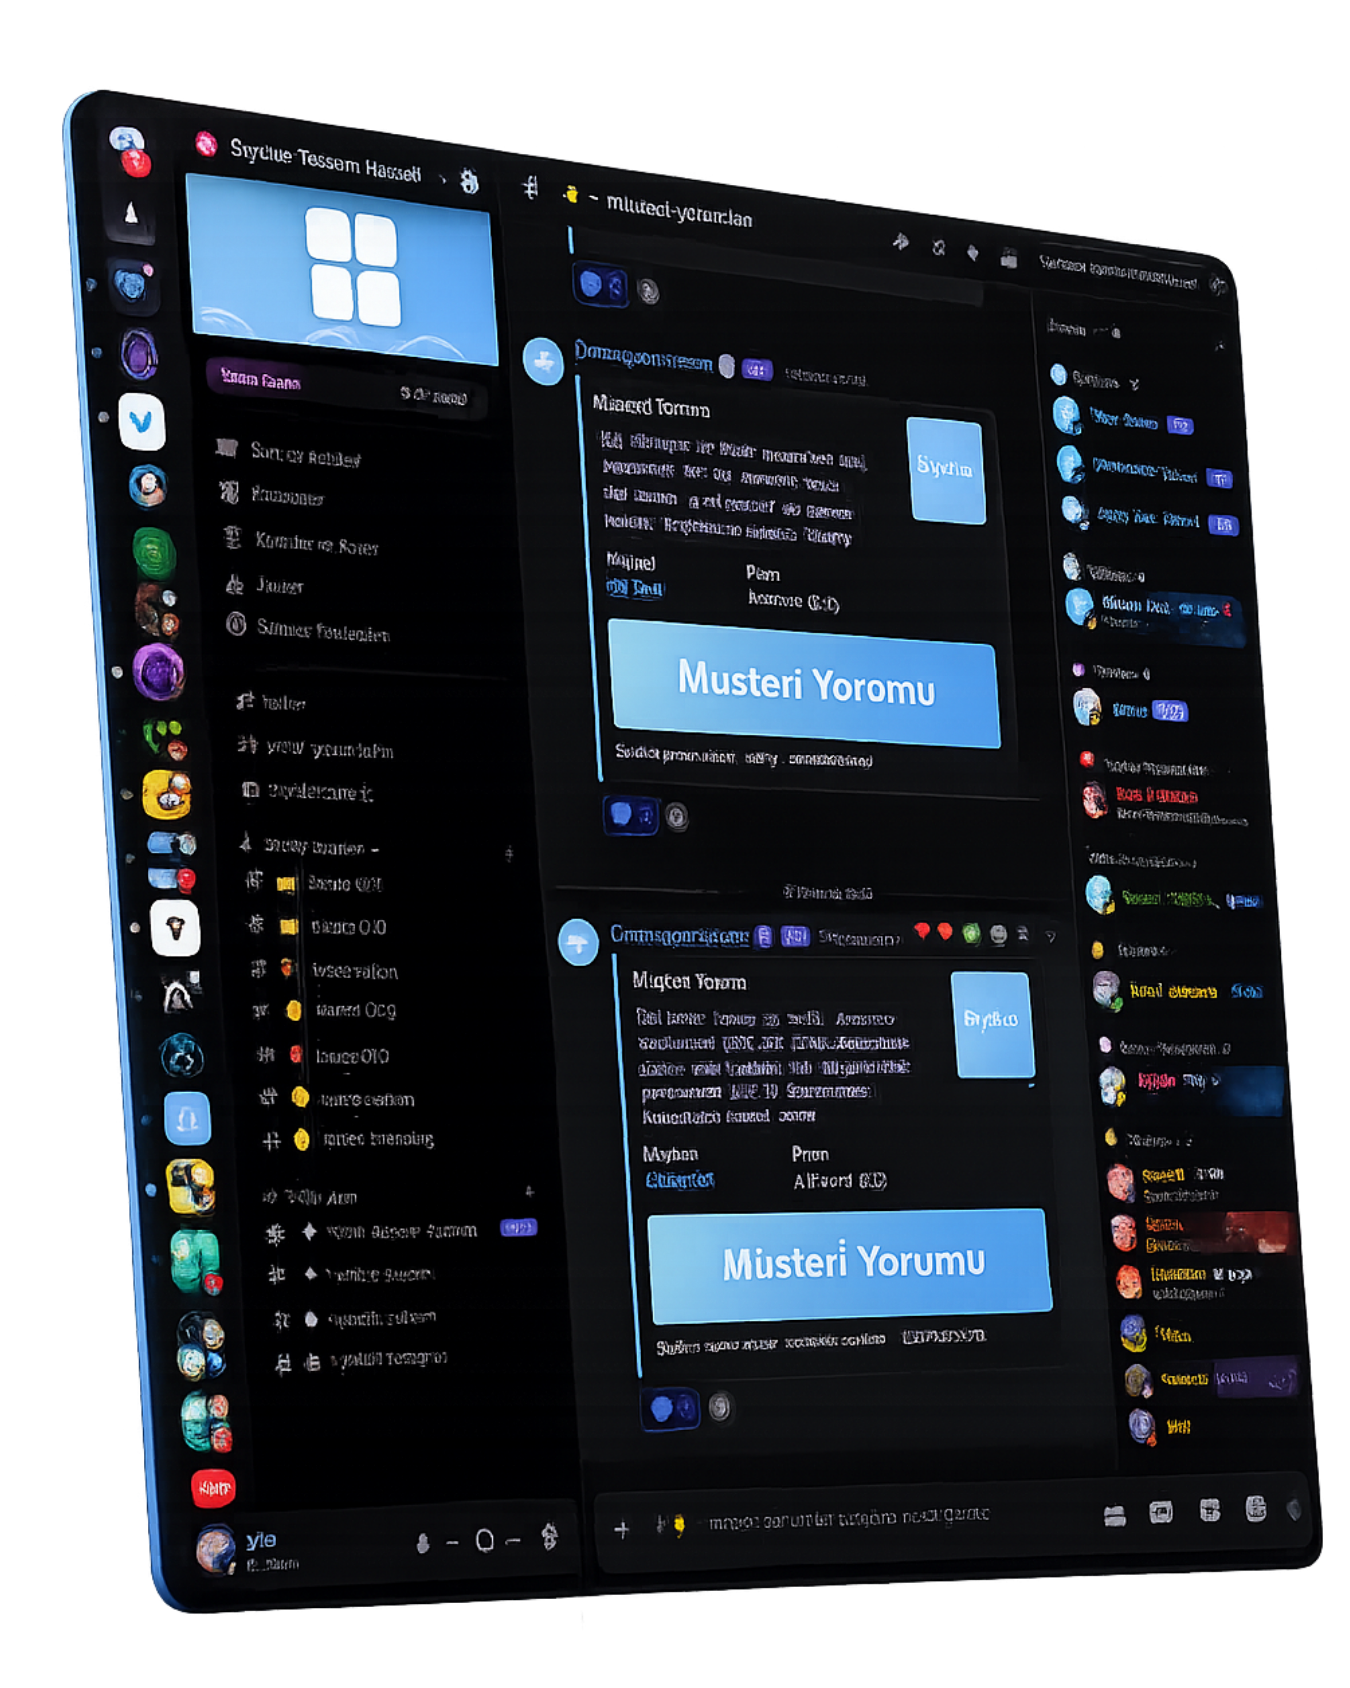
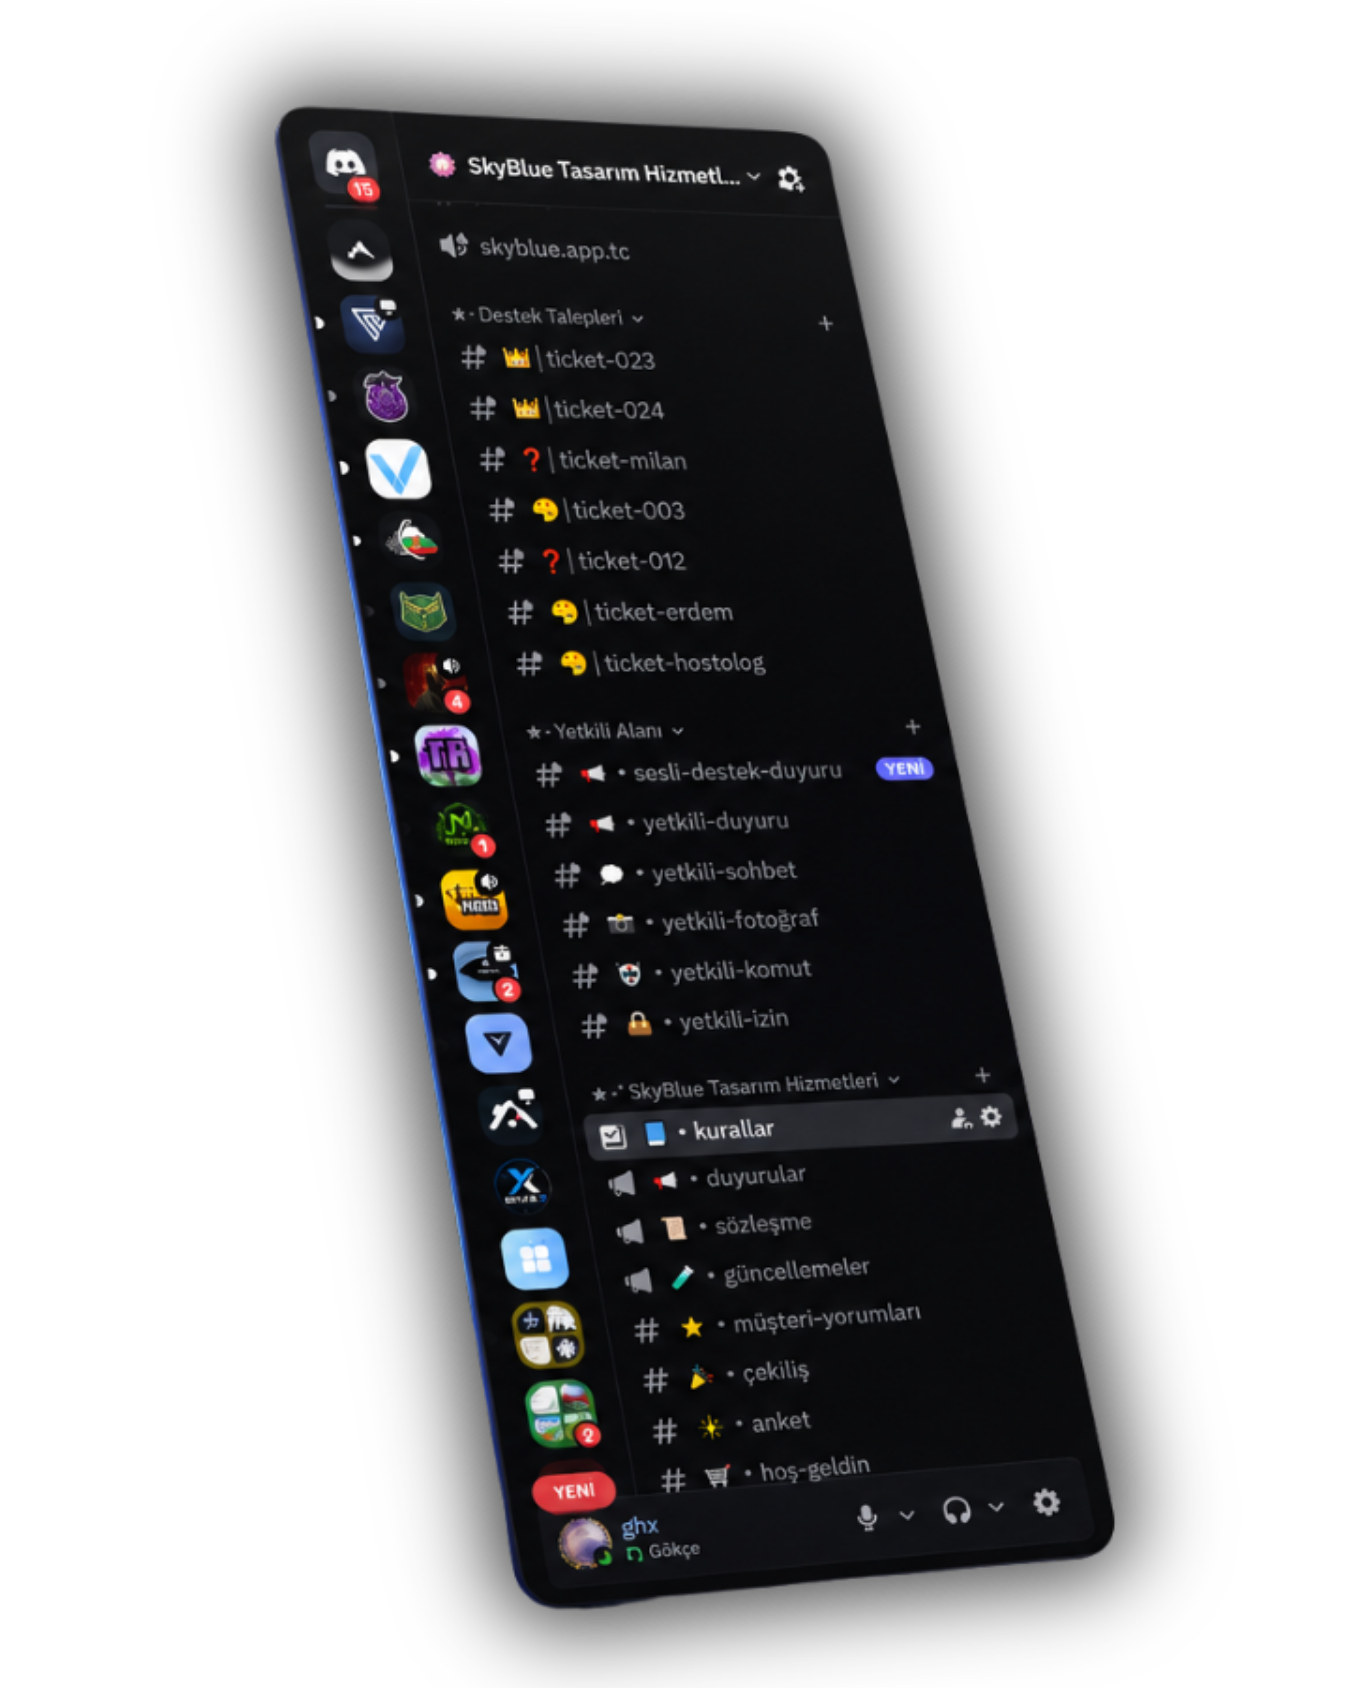
fix: nav underline initial snap, bg image loading style

diff --git a/components/Nav.tsx b/components/Nav.tsx
@@ -13,7 +13,7 @@ export default function Nav() {
   const pathname = usePathname();
   const { t, theme } = useApp();
   const [open, setOpen] = useState(false);
-  const [indicator, setIndicator] = useState({ left: 0, width: 0 });
+  const [indicator, setIndicator] = useState({ left: 0, width: 0, measured: false });
   const navRef = useRef<HTMLDivElement>(null);
 
   const current = pathname === "/" ? "home" : pathname.replace("/", "");
@@ -23,7 +23,7 @@ export default function Nav() {
     const active = navRef.current.querySelector<HTMLAnchorElement>("a.active-link");
     if (active) {
       const parent = active.parentElement as HTMLLIElement;
-      setIndicator({ left: parent.offsetLeft, width: parent.offsetWidth });
+      setIndicator({ left: parent.offsetLeft, width: parent.offsetWidth, measured: true });
     }
   }, [current, open]);
 
@@ -41,10 +41,12 @@ export default function Nav() {
           <MenuIcon size={24} />
         </button>
         <div ref={navRef} className={`relative ${open ? "flex" : "hidden"} md:flex absolute md:static top-16 left-0 right-0 bg-[var(--nav-bg)] md:bg-transparent backdrop-blur-md md:backdrop-blur-none border-b md:border-b-0 border-[var(--border)] md:border-none p-4 md:p-0`}>
-          <div
-            className="hidden md:block absolute bottom-0 h-[2px] bg-gradient-to-r from-[#97cdf2] to-[#59abfe] rounded-full transition-all duration-300 ease-in-out pointer-events-none"
-            style={{ left: indicator.left, width: indicator.width }}
-          />
+          {indicator.measured && (
+            <div
+              className="hidden md:block absolute bottom-0 h-[2px] bg-gradient-to-r from-[#97cdf2] to-[#59abfe] rounded-full transition-all duration-300 ease-in-out pointer-events-none"
+              style={{ left: indicator.left, width: indicator.width }}
+            />
+          )}
           <ul className="list-none flex flex-col md:flex-row gap-1 md:gap-0">
             {links.map((link) => (
               <li key={link}>

diff --git a/app/page.tsx b/app/page.tsx
@@ -93,7 +93,7 @@ export default function HomePage() {
                 {[...row.images, ...row.images].map((img, i) => (
                   <div
                     key={i}
-                    className="inline-block mx-4 rounded-lg overflow-hidden"
+                    className="inline-block mx-4 rounded-lg overflow-hidden bg-[var(--bg2)]"
                     style={{ height: row.h + (i % 3) * 20, aspectRatio: `${img.width}/${img.height}` }}
                   >
                     <Image
@@ -102,7 +102,7 @@ export default function HomePage() {
                       width={img.width}
                       height={img.height}
                       className="w-full h-full object-cover"
-                      unoptimized
+                      sizes="200px"
                     />
                   </div>
                 ))}